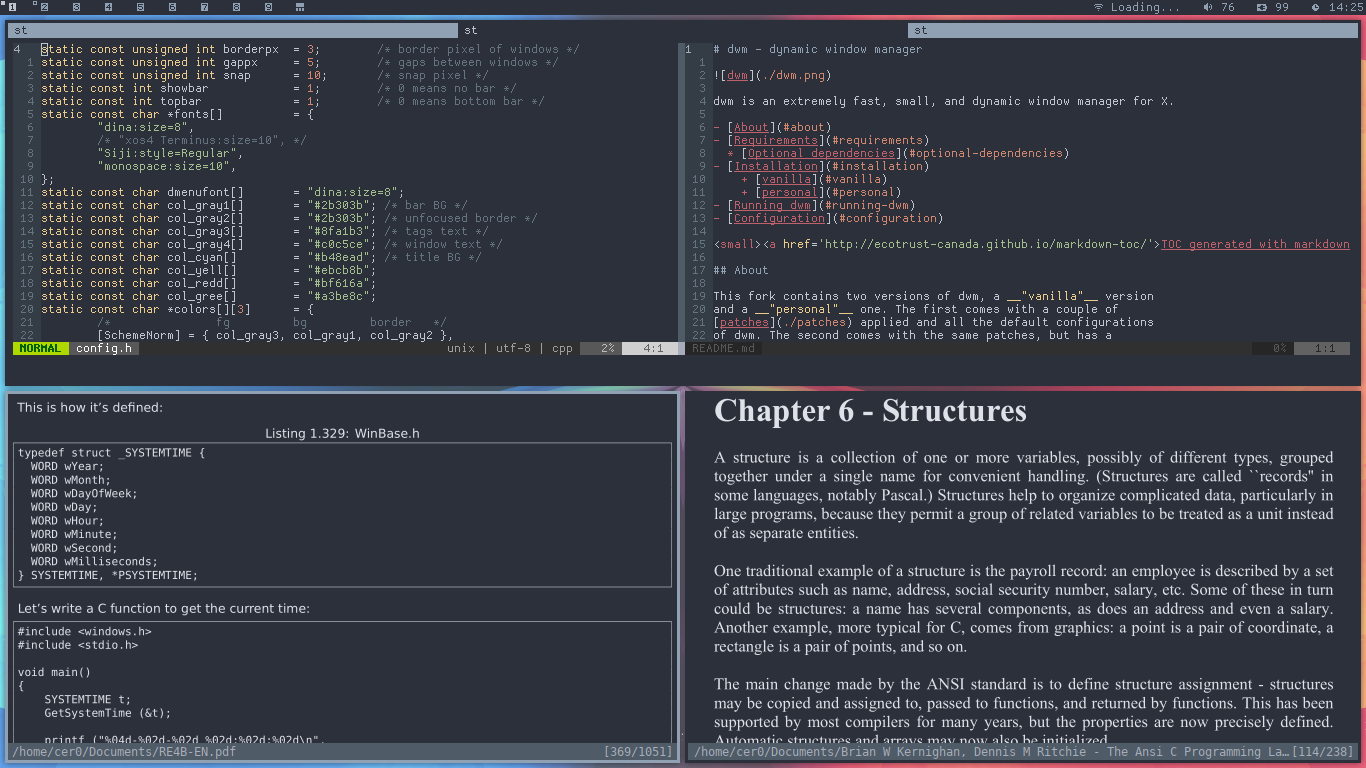
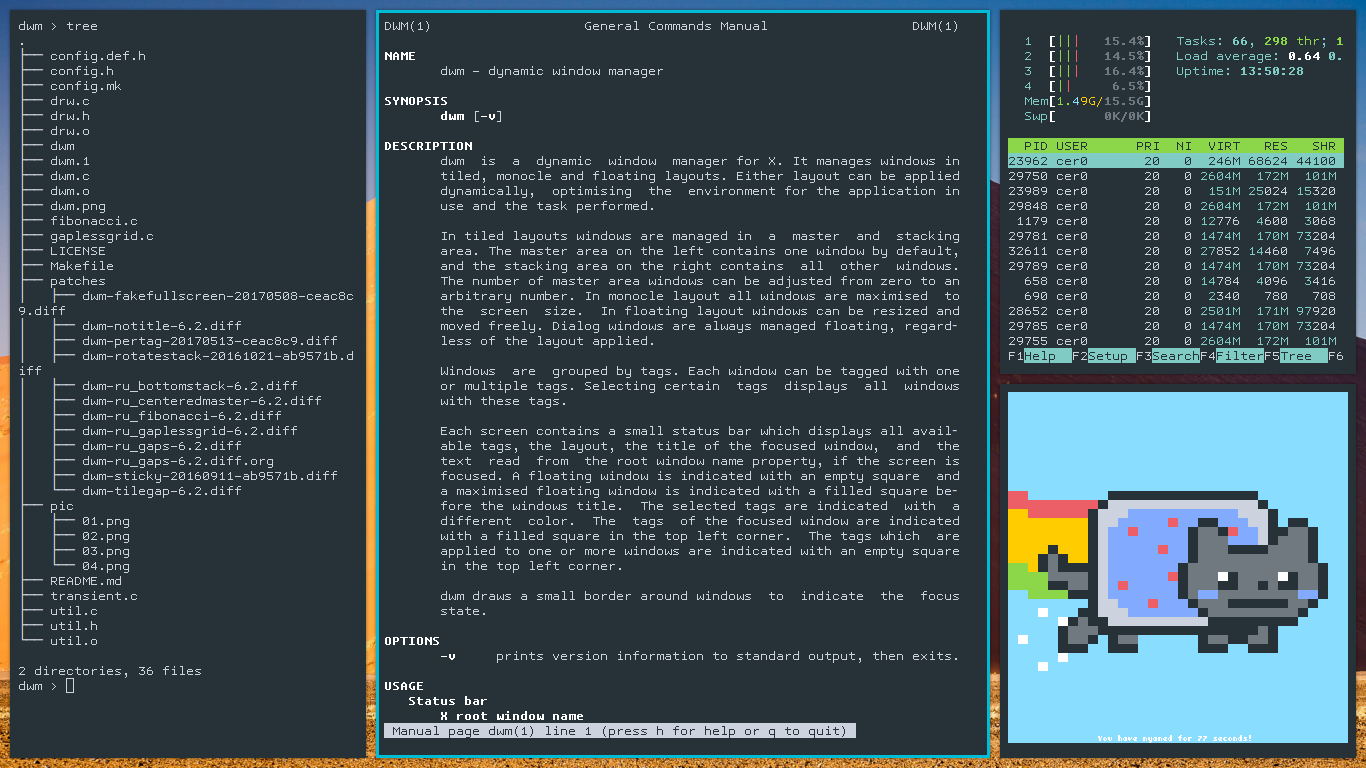
Replace files inside pic, update README.md

diff --git a/README.md b/README.md
@@ -18,7 +18,7 @@ dwm is an extremely fast, small, and dynamic window manager for X.
 
 ## About
 
-![Personal](./pic/04.png)
+![Personal](./pic/01.png)
 
 This fork contains two versions of dwm, a __"vanilla"__ version
 and a __"personal"__ one. The first comes with a couple of 
@@ -34,7 +34,7 @@ In order to build dwm you need the Xlib header files.
 ### Optional dependencies
 
 ```
-    siji-font dina-font terminus-font playerctl alsamixer alsa-utils nnn
+    {siji,dina,terminus,tamsyn}-font playerctl alsamixer alsa-utils nnn
     scrot slock tabbed st surf dmenu
 ```
 
@@ -104,14 +104,10 @@ and (re)compiling the source code. (:
 
 ## Shots
 
-Single focused window
+Centered master layout (`st` running `htop` and `nyancat`).
 
-![single](./pic/01.png)
+![single](./pic/02.png)
 
-Fake busy
+Tiled layout (`surf`, and `tmux` inside `st`).
 
-![busy](./pic/02.png)
-
-Grid
-
-![grid](./pic/03.png)
+![busy](./pic/03.png)
